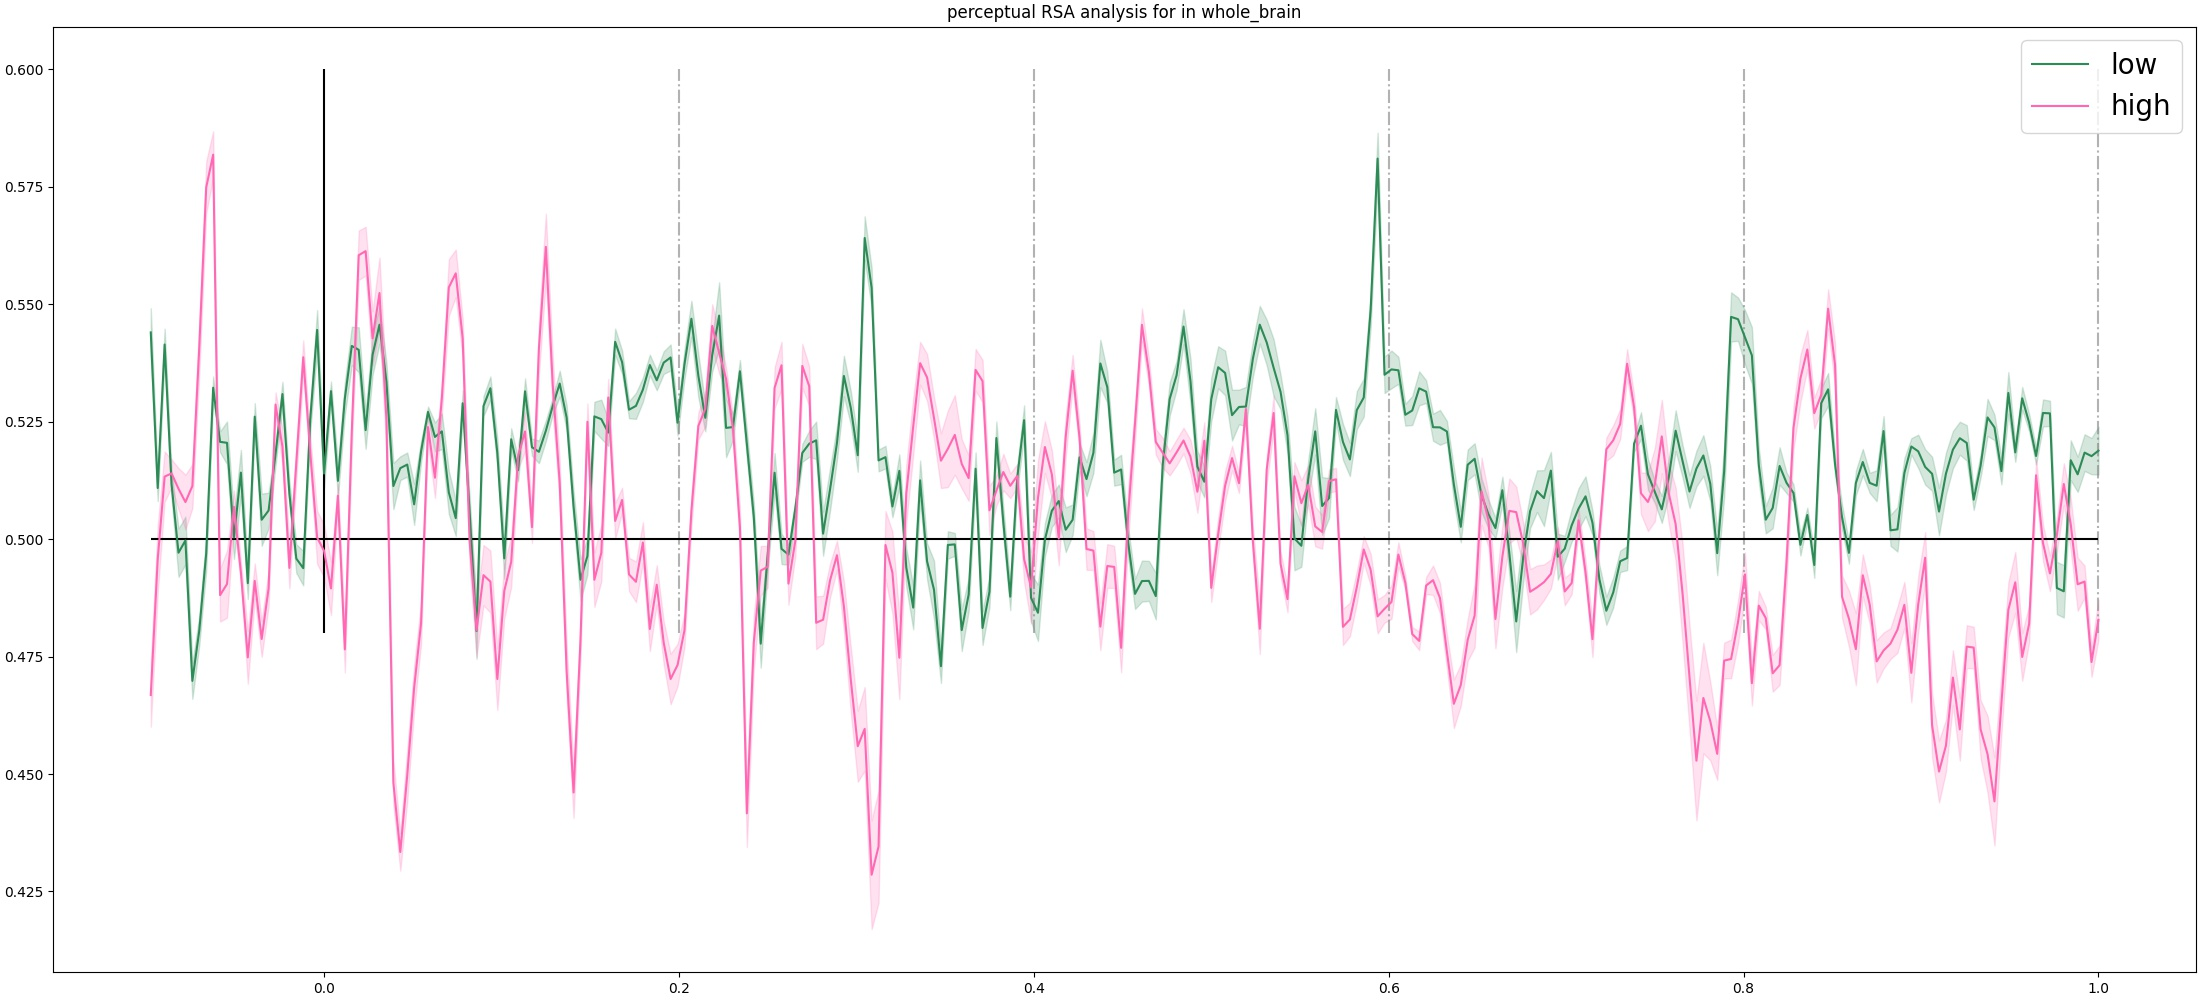
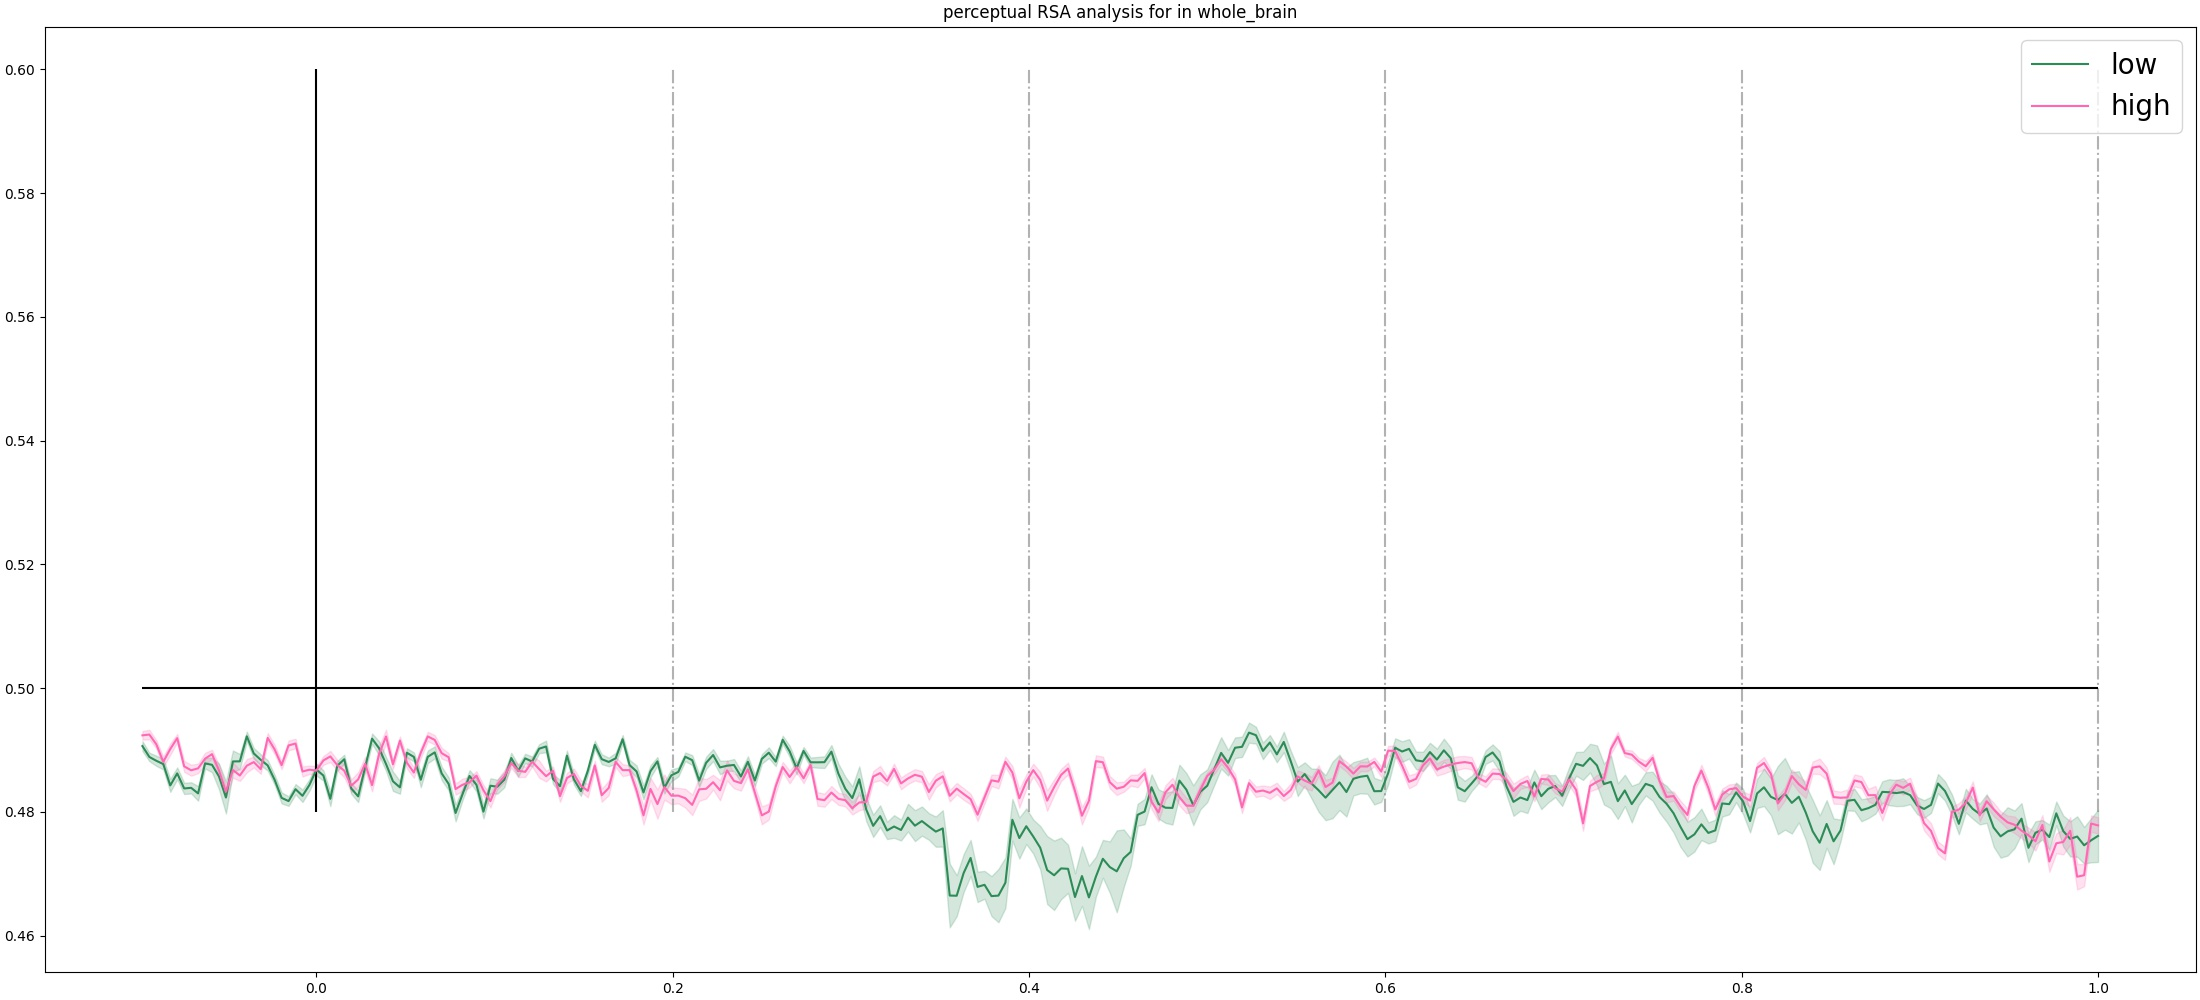
new plots

diff --git a/04_rsa_simple.py b/04_rsa_simple.py
@@ -47,6 +47,7 @@ def compute_ranking(t):
     accuracies = list()
     for test_item, real_vec in t_data.items():
 
+        '''
         ### remove average activity
         avg_data = numpy.average([v for k, v in t_data.items() if k!=test_item], axis=0)
         current_data = {k : v-avg_data for k, v in t_data.items()}
@@ -56,7 +57,6 @@ def compute_ranking(t):
         ### leaves ERPs untouched
         pred = numpy.sum([t_data[w]*similarities[model][tuple(sorted([w, test_item]))] for w in t_data.keys() if w!=test_item], axis=0)
         scores = {w : scipy.stats.pearsonr(erp, pred)[0] for w, erp in t_data.items()}
-        '''
         ### sorting and looking at ranking
         sorted_w = [v[0] for v in sorted(scores.items(), key=lambda item : item[1], reverse=True)]
         rank = 1 - (sorted_w.index(test_item) / len(sorted_w))
@@ -266,12 +266,14 @@ for model in [
                                     eeg_f,
                                     verbose=False,
                                     preload=True)
+            '''
             s_data = raw_f.get_data(picks='eeg')
-            #s_data_unscaled = raw_f.get_data(picks='eeg')
+            '''
+            s_data_unscaled = raw_f.get_data(picks='eeg')
             ### Scaling 
-            #s_data = mne.decoding.Scaler(raw_f.info, \
-            #            scalings='mean'\
-            #            ).fit_transform(s_data_unscaled)
+            s_data = mne.decoding.Scaler(raw_f.info, \
+                        scalings='mean'\
+                        ).fit_transform(s_data_unscaled)
             xs = raw_f.times
             events = raw_f.events
             ### initializing ERPs
